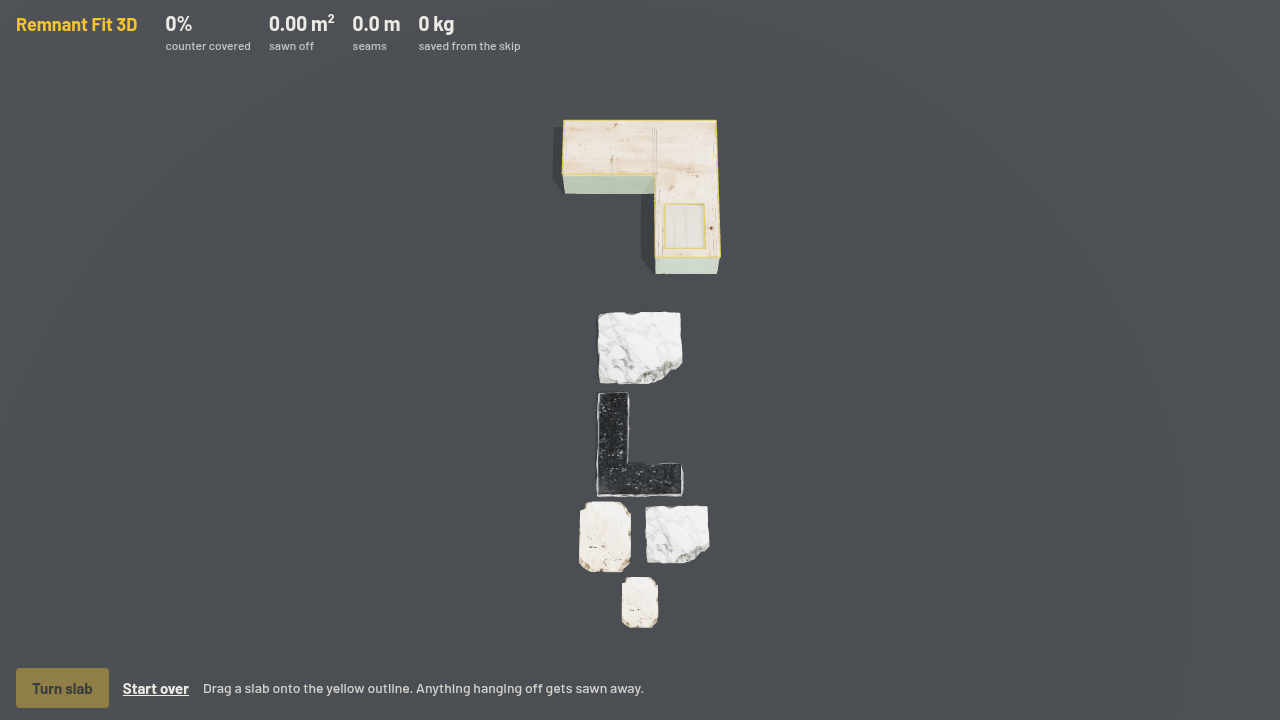
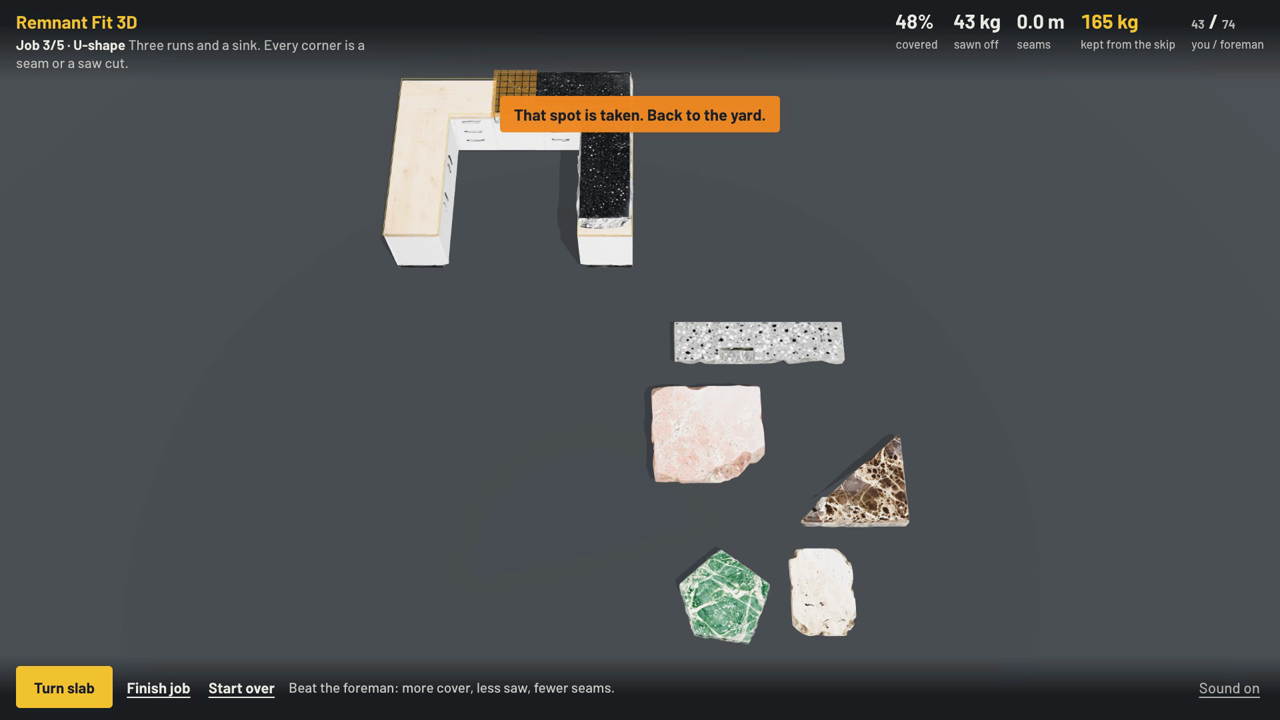
docs: report v2 frames, README v2; video: fix still timing in the final cut

Changed region(s): [[0.0, 0.4278, 1.0, 1.0], [0.0, 0.0, 1.0, 0.3972], [0.625, 0.6111, 0.7188, 0.7333]]

diff --git a/video/finish.py b/video/finish.py
@@ -68,8 +68,8 @@ open(f"{OUT}/captions.ass", "w").write("\n".join(ass) + "\n")
 
 song = pick_song(glob.glob("/Library/Audio/Apple Loops/Apple/07 Chillwave/*.caf"), "remnant-fit-3d")
 cmd = [FF, "-v", "error", "-y", "-i", f"{OUT}/gameplay.mp4"]
-for s in slides:
-    cmd += ["-loop", "1", "-t", str(SLIDE), "-i", s]
+for s in slides:  # one frame in; zoompan makes the SLIDE seconds
+    cmd += ["-i", s]
 cmd += ["-loop", "1", "-t", str(CARD), "-i", f"{OUT}/card.png", "-i", f"{OUT}/sfx.wav"]
 for f in song:
     cmd += ["-stream_loop", "-1", "-i", f]
